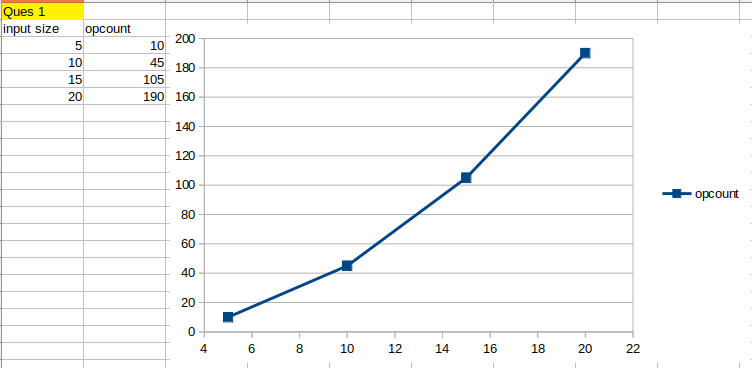
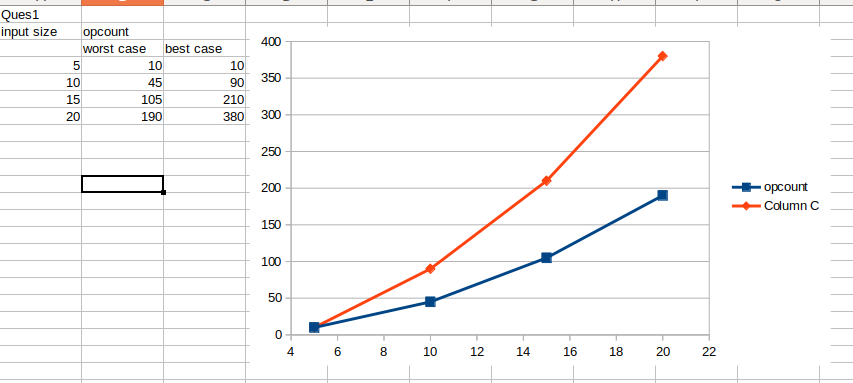
corrections in lab3

diff --git a/Sem4/al/Lab3-BruteForce/Ques1-BubbleSort.c b/Sem4/al/Lab3-BruteForce/Ques1-BubbleSort.c
@@ -6,6 +6,7 @@ void bubbleSort(int list[], int n){
     for (int j=0;j<n-i-1;j++) {
         ++opcount;
       if (list[j]>list[j+1]) {
+        ++opcount;
         t= list[j];
         list[j]= list[j+1];
         list[j+1]= t;
@@ -16,7 +17,7 @@ void bubbleSort(int list[], int n){
 }
 
 int main(){
-  int array[100], n;
+  int array[30], n;
   printf("Enter number of elements: ");
   scanf("%d", &n);
   printf("Enter %d integers:\n", n);

diff --git a/Sem4/al/Lab3-BruteForce/Ques2-StringMatching.c b/Sem4/al/Lab3-BruteForce/Ques2-StringMatching.c
@@ -30,9 +30,9 @@ int main() {
     scanf("%s", ptr);
     res = bruteForce(str, ptr, strlen(str), strlen(ptr));
     if (res == -1) {
-            printf("\nSearch ptr is not available\n");
+            printf("\ptr is not available\n");
     } else {
-            printf("\nSearch ptr is available\n");
+            printf("\ptr is available\n");
     }
     return 0;
 }

diff --git a/Sem4/al/Lab3-BruteForce/Ques3-PartitionProblem.c b/Sem4/al/Lab3-BruteForce/Ques3-PartitionProblem.c
@@ -28,7 +28,6 @@ int main(){
     for(int i=0;i<n;i++){
         scanf("%d", &arr[i]);
     }
-	int s = sizeof(arr) / sizeof(arr[0]);
 	if (partition(arr, n) == true)
 		printf("\nCan be divided into two subsets of equal sum\n");
 	else
